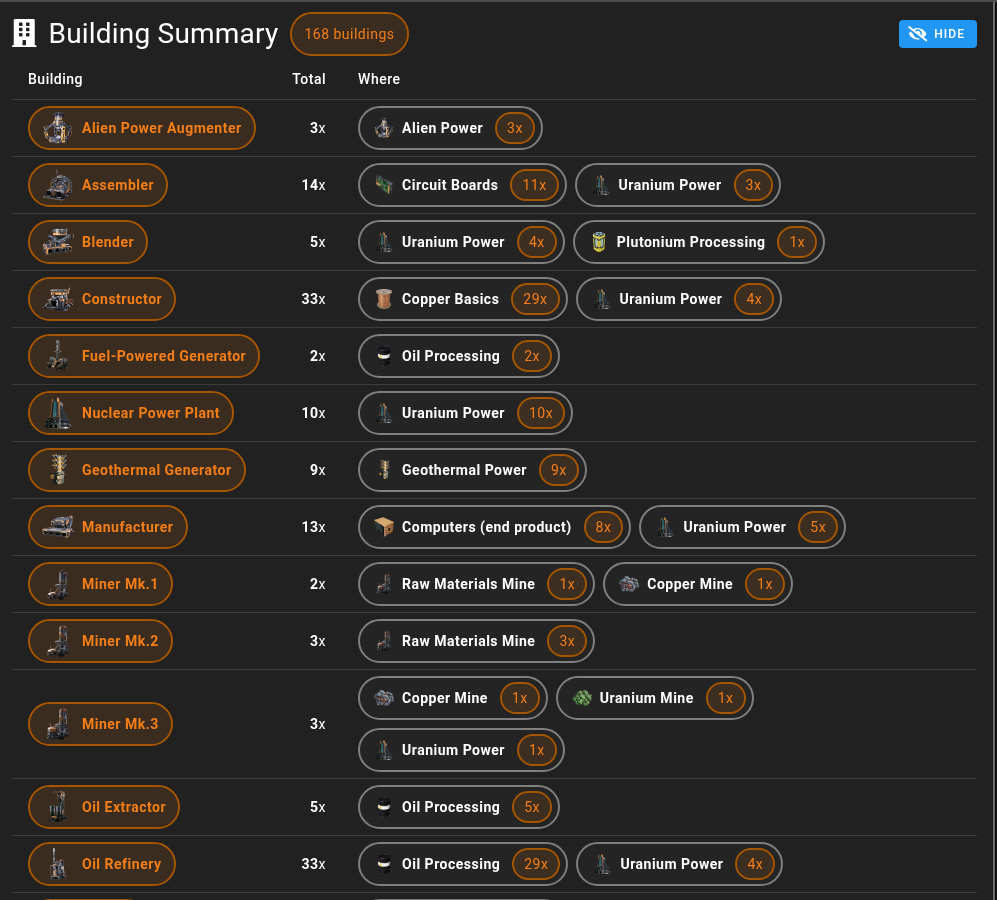
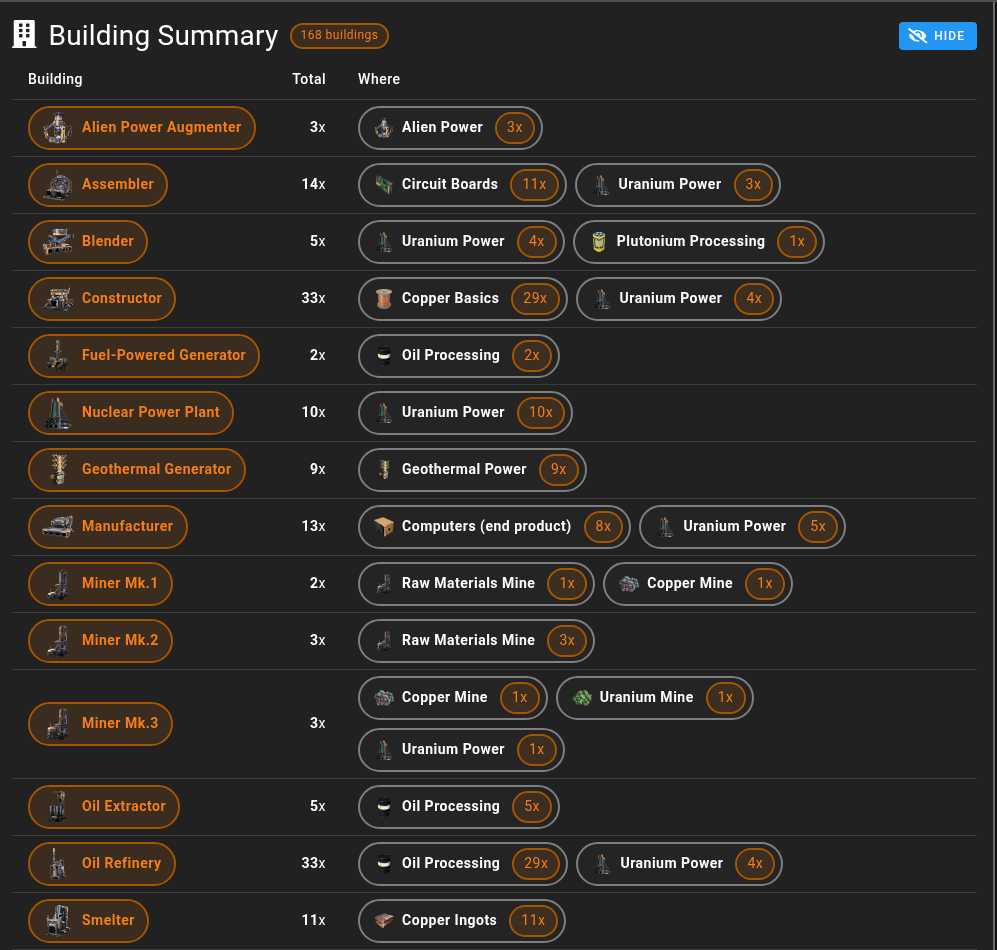
docs(web): refresh the statistics captures
All four were taken before the pills shrank and the bolt came down, and the
Product Surplus & Deficit one still showed the section under its old name and
shape. Retaken, and the deck now shows Building Summary as well, which had
become a table with nothing pointing at it.

diff --git a/web/src/components/SplashV6.vue b/web/src/components/SplashV6.vue
@@ -360,6 +360,16 @@
             or balanced. Each row names the factories producing the item in green and any factory
             short of it in red; click a chip to jump there.
           </p>
+          <h4 class="text-subtitle-1 font-weight-bold mt-4 mb-2">Building Summary</h4>
+          <p class="mb-2">Every factory holding each building type, and how many stand in it.</p>
+          <v-img
+            v-if="hasStatsShots"
+            alt="The Building Summary table, listing every factory that holds each building"
+            class="mb-2 mx-auto rounded"
+            max-width="1200"
+            :src="shots.statsBuildings"
+          />
+
           <h4 class="text-subtitle-1 font-weight-bold mt-4 mb-2">Power Consumption and Generation</h4>
           <v-img
             v-if="hasStatsShots"
@@ -517,8 +527,9 @@
     status: '/assets/changelog/beta6/status-chips.png',
     tasks: '/assets/changelog/beta6/tasks.png',
     statsRaw: '/assets/changelog/beta6/statistics-raw-resources.png',
-    statsSurplus: '/assets/changelog/beta6/statistics-surplus.png',
+    statsSurplus: '/assets/changelog/beta6/statistics-items.png',
     statsPower: '/assets/changelog/beta6/statistics-power-by-factory.png',
+    statsBuildings: '/assets/changelog/beta6/statistics-buildings.png',
     options: '/assets/changelog/beta6/options-button.png',
     groupButtons: '/assets/changelog/beta6/group-buttons.png',
     groupAssign: '/assets/changelog/beta6/group-assign-menu.png',
